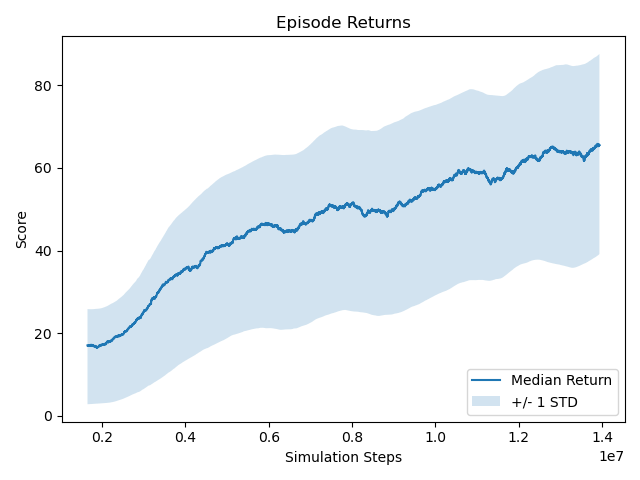
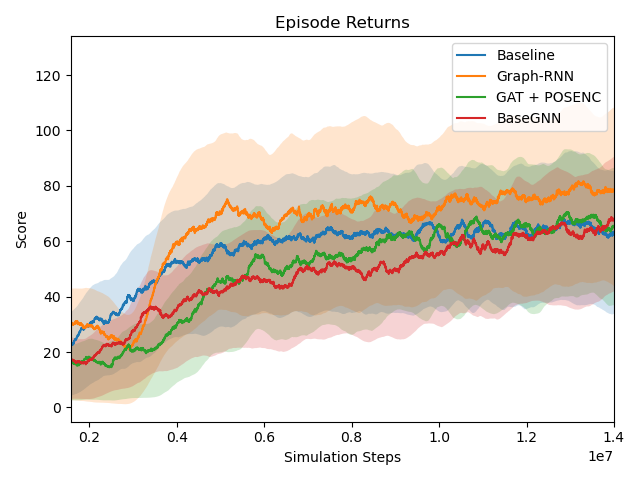
Author headers

diff --git a/plot.py b/plot.py
@@ -1,3 +1,4 @@
+# Kamil Krukowski and Harry Li 2023
 import os
 
 import pandas as pd
@@ -62,8 +63,15 @@ df2 = get_results(save_dir + 'posenc')
 df3 = get_results(choice)
 df4 = get_results(save_dir + 'base')
 
-paths = [save_dir + 'baselinegnn', save_dir + 'posenc', save_dir + 'base', save_dir + 'latest/']
-labels = ['BaseGNN', 'GAT + POSENC', 'BaseCNN', 'Graph-RNN']
+paths = [save_dir + 'baselinegnn', save_dir + 'posenc', save_dir + 'base', save_dir + 'g-rnn-entropy']
+labels = ['BaseGNN', 'GAT + POSENC', 'Baseline', 'Graph-RNN']
+
+paths = [paths[2], paths[-1], paths[1], paths[0]]
+labels = [labels[2], labels[-1], labels[1], labels[0]]
+
+#paths = [paths[2], paths[-1]]
+#labels = [labels[2], labels[-1]]
+
 res = []
 for path in paths:
     df = get_results(path)
@@ -77,7 +85,7 @@ if clip:
         res[i] = res[i][res[i]['# Step'] < minL]
 
 K  = 500
-K2 = 1000
+K2 = 100
 P = 0.3
 K = min(max(min([int(len(i)*P) for i in res]), 2), K)
 K2 = K
@@ -87,7 +95,7 @@ for i, label in zip(range(len(res)), labels):
 
 res1 = res[0]
 res2 = res[1]
-res3 = res[2]
+res3 = res[-1]
 xmin = max([i['# Step'].iloc[K2+K] for i in res])
 xmax = min([i['# Step'].iloc[K2+K] for i in res])
 xmax = 1.4e+7

diff --git a/gnn.py b/gnn.py
@@ -1,6 +1,5 @@
 """
-
-
+Harry Li and Kamil Krukowski 2023
 """
 import torch
 import torch.nn.functional as F  # noqa
@@ -101,10 +100,17 @@ class GNNwPOSENC(torch.nn.Module):
         """
         # First feature is LongTensor Embedding lookup IDX
         # 2nd, 3rd are x,y pos, 4th is boolean: agent or not.
-        glyphs = x[:, :1]
-        xpos = x[:, 1:2]
-        ypos = x[:, 2:3]
-        is_agent = x[:, 3:4]
+        glyphs, xpos, ypos, is_agent = (None, None, None, None)
+        if len(x.shape) == 2:
+            glyphs = x[:, :1]
+            xpos = x[:, 1:2]
+            ypos = x[:, 2:3]
+            is_agent = x[:, 3:4]
+        else:
+            glyphs = x[:1]
+            xpos = x[1:2]
+            ypos = x[2:3]
+            is_agent = x[3:4]
 
         glyphs = self.embed(glyphs).squeeze()
         is_agent = self.embed_is_agent(is_agent).squeeze()

diff --git a/train_torchbeast.py b/train_torchbeast.py
@@ -159,7 +159,10 @@ def compute_policy_gradient_loss(logits, actions, advantages):
 
 
 def create_env(name, *args, **kwargs):
-    return gym.make(name, observation_keys=("glyphs", "blstats"), *args, **kwargs)
+    observation_keys = ("glyphs", "blstats")
+    if 'observation_keys' in kwargs:
+        observation_keys = kwargs.pop('observation_keys')
+    return gym.make(name, observation_keys=observation_keys, *args, **kwargs)
 
 
 def act(
@@ -579,9 +582,7 @@ def train(flags):  # pylint: disable=too-many-branches, too-many-statements
         "baseline_loss",
         "entropy_loss",
     ]
-
-
-    
+ 
     if not flags.resume:
         logfile.write("# Step\t%s\n" % "\t".join(stat_keys))
     else:

diff --git a/nethacknet.py b/nethacknet.py
@@ -81,6 +81,9 @@ class Crop(nn.Module):
 
 
 def pygData_from_buffer(env_outputs):
+    """
+    Implemented by Harry Li and Kamil Krukowski 2023
+    """
 
     nodes = env_outputs['pyg_nodes']
     edges = env_outputs['pyg_edges']
@@ -119,6 +122,9 @@ def pygData_from_buffer(env_outputs):
 
 
 class NetHackNet(nn.Module):
+    """
+    modified by Harry Li and Kamil Krukowski 2023
+    """
     def __init__(
         self,
         observation_shape,
@@ -333,7 +339,7 @@ class NetHackNet(nn.Module):
             print(gnn_out.shape)
 
         # print("shapes",[x.shape for x in reps])
-        
+
         # LSTM
         if self.use_lstm:
             core_input = gnn_out.view(T, B, -1)

diff --git a/create_graph_representation.py b/create_graph_representation.py
@@ -1,3 +1,6 @@
+"""
+Harry Li and Kamil Krukowski 2023
+"""
 from abc import ABC, abstractmethod, abstractproperty
 import re
 
